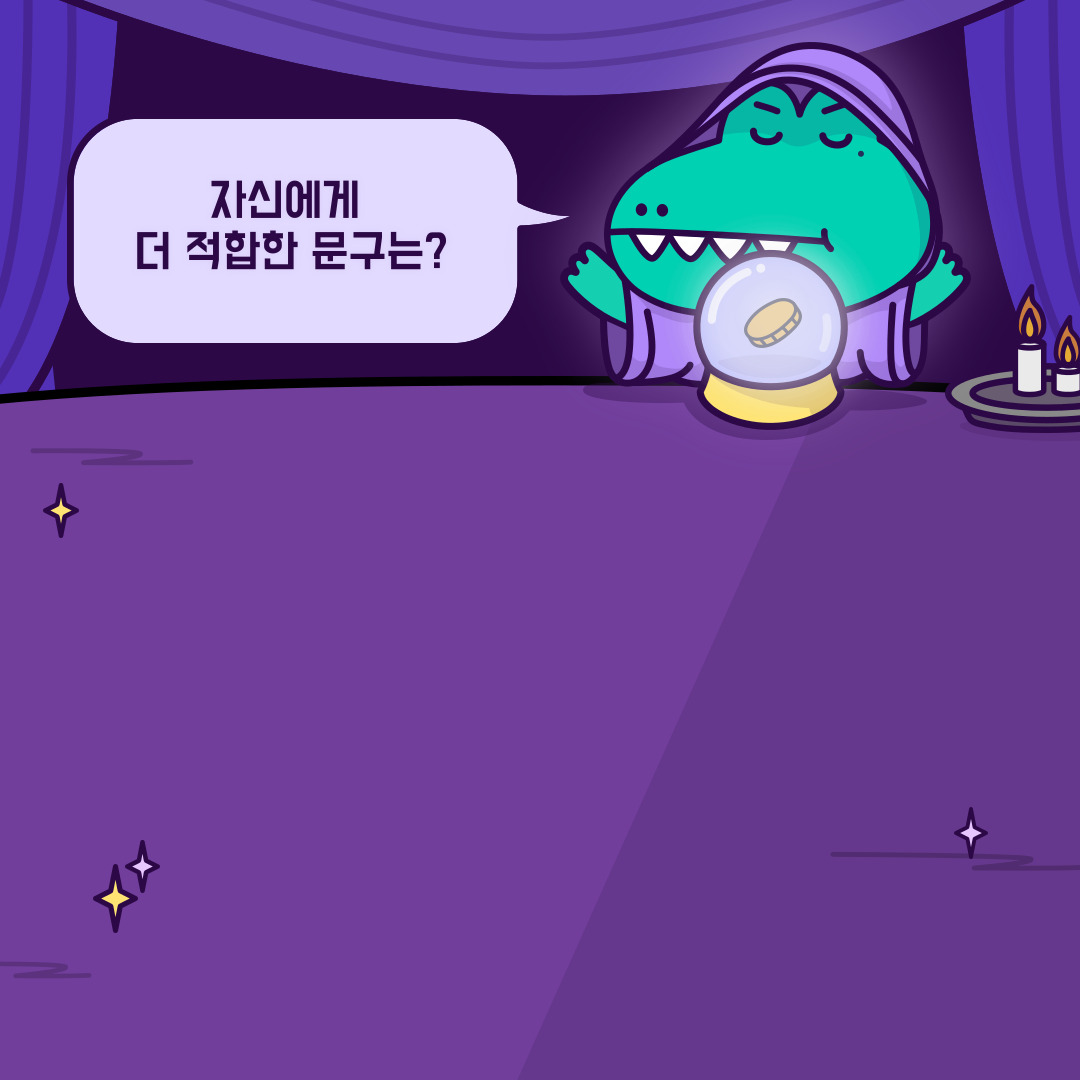
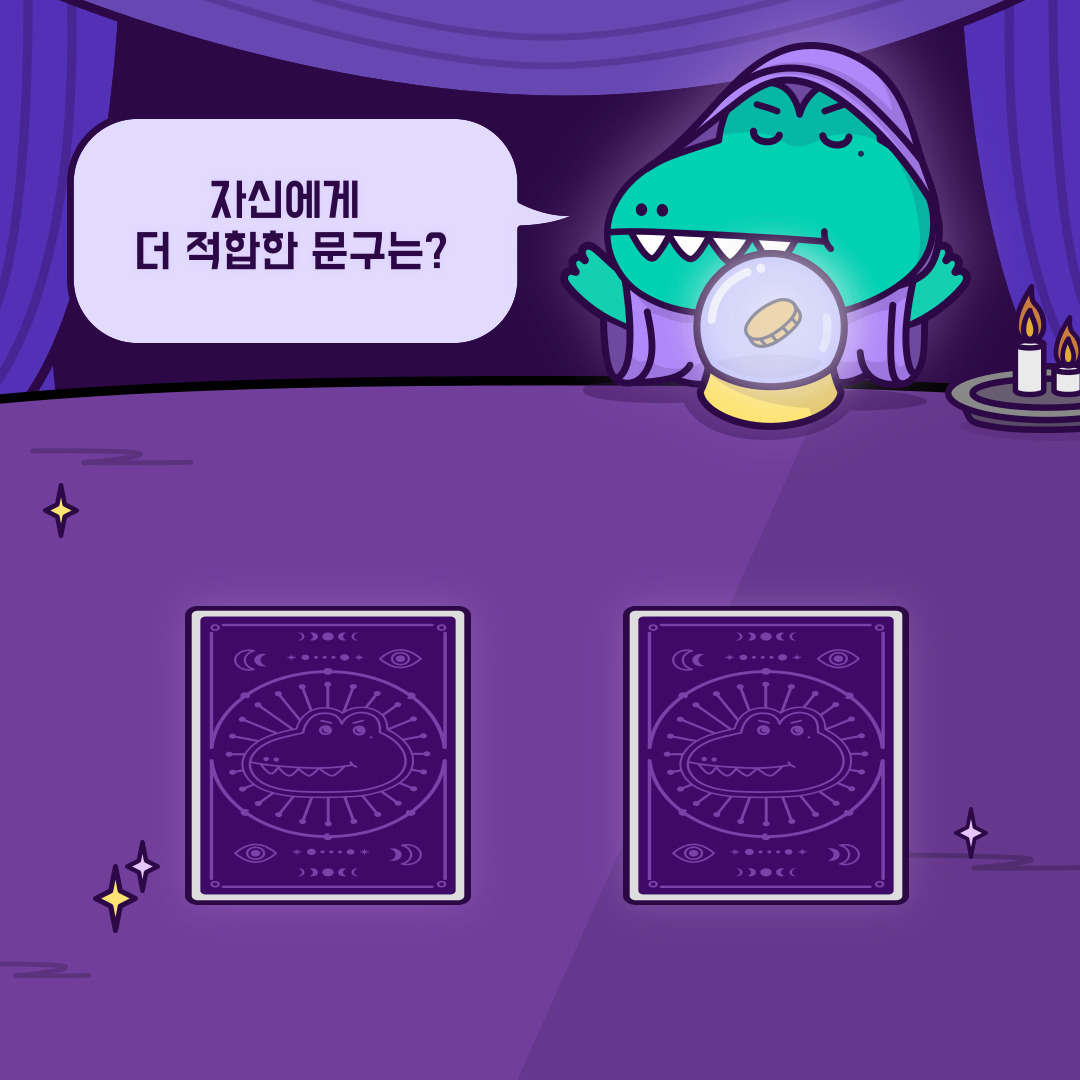
12/30 5:28

Changed region(s): [[0.1528, 0.55, 0.4583, 0.8556], [0.55, 0.55, 0.8556, 0.8556]]

diff --git a/js/apps.js b/js/apps.js
@@ -1,0 +1,103 @@
+const mbtiInfo = {
+  istp: [
+    "대담하면서도 현실적인 성격으로, 모든 종류의 도구를 자유자재로 다루는 장인입니다.",
+    "ISTP",
+  ],
+  istj: ["사실을 중시하는 믿음직한 현실주의자입니다.", , "ISTJ"],
+  isfp: [
+    "항상 새로운 경험을 추구하는 유연하고 매력 넘치는 예술가입니다.",
+    "ISFP",
+  ],
+  isfj: [
+    "주변 사람을 보호할 준비가 되어있는 헌신적이고 따뜻한 수호자입니다.",
+    "ISFJ",
+  ],
+  intp: ["지식을 끝없이 갈망하는 혁신적인 발명가입니다.", "INTP"],
+  intj: ["모든 일에 대해 계획을 세우며 상상력이 풍부한 전략가입니다.", "INTJ"],
+  infp: [
+    "항상 선을 행할 준비가 되어 있는 부드럽고 친절한 이타주의자입니다.",
+    "INFP",
+  ],
+  infj: [
+    "차분하고 신비한 분위기를 풍기는 성격으로, 다른 사람에게 의욕을 불어넣는 이상주의자입니다.",
+    "INFJ",
+  ],
+  estp: [
+    "위험을 기꺼이 감수하는 성격으로 영리하고 에너지 넘치며 관찰력이 뛰어난 사업가입니다.",
+    "ESTP",
+  ],
+  estj: ["사물과 사람을 관리하는 데 뛰어난 능력을 지닌 경영자입니다.", "ESTJ"],
+  esfp: [
+    "즉흥적이고 넘치는 에너지와 열정으로 주변사람을 즐겁게 하는 연예인입니다.",
+    "ESFP",
+  ],
+  esfj: [
+    "배려심이 넘치고 항상 타인을 도울 준비가 되어있는 성격으로, 사교성이 높은 마당발입니다.",
+    "ESFJ",
+  ],
+  entp: ["지적 도전을 즐기는 영리하고 호기심이 많은 사색가입니다.", "ENTP"],
+  entj: [
+    "항상 해결책을 찾아내는 성격으로, 대담하고 상상력이 풍부하며 의지가 강한 지도자입니다.",
+    "ENTJ",
+  ],
+  enfp: [
+    "열정적이고 창의적인 성격으로, 긍정적으로 삶을 바라보는 사교적이면서도 자유로운 영혼입니다.",
+    "ENFP",
+  ],
+  enfj: [
+    "청중을 사로잡고 의욕을 불어넣는 카리스마 넘치는 지도자입니다.",
+    "ENFJ",
+  ],
+};
+let pageNumber = 1;
+const imageContainer1 = document.querySelector("#image-container1");
+const imageContainer2 = document.querySelector("#image-container2");
+const imageContainer3 = document.querySelector("#image-container3");
+
+const textContainer = document.querySelector("#text-container");
+const leftItem = document.querySelector("#left-item");
+const rightItem = document.querySelector("#right-item");
+const HIDDEN_KEY = "hidden";
+
+let answerArr = [
+  null,
+  null,
+  null,
+  null,
+  null,
+  null,
+  null,
+  null,
+  null,
+  null,
+  null,
+  null,
+];
+const page = document.querySelector("#page");
+function onStart() {
+  imageContainer1.classList.add(HIDDEN_KEY);
+  imageContainer2.classList.remove(HIDDEN_KEY);
+  textContainer.classList.remove(HIDDEN_KEY);
+  page.innerText = `${pageNumber}/12`;
+}
+imageContainer1.addEventListener("click", onStart);
+
+const before = document.querySelector("#before");
+
+function pagingMinus() {
+  if (pageNumber === 1) {
+  } else {
+    pageNumber--;
+  }
+  page.innerText = `${pageNumber}/12`;
+}
+
+function pagingPlus() {
+  if (pageNumber === 12) {
+  } else {
+    pageNumber++;
+  }
+  page.innerText = `${pageNumber}/12`;
+}
+before.addEventListener("click", pagingMinus);
+after.addEventListener("click", pagingPlus);

diff --git a/css/index.css b/css/index.css
@@ -1,6 +1,14 @@
+@font-face {
+  font-family: "BMDOHYEON";
+  src: url("https://cdn.jsdelivr.net/gh/projectnoonnu/noonfonts_one@1.0/BMDOHYEON.woff")
+    format("woff");
+  font-weight: normal;
+  font-style: normal;
+}
 * {
   margin: 0;
   padding: 0;
+  font-family: "BMDOHYEON";
 }
 
 #wrap {
@@ -32,58 +40,113 @@
   display: none;
 }
 
-#image-container {
+#image-container1 {
+  background-image: url("../img/start.jpg");
+  /* 900 or 1080 */
+  height: 1080px;
+  position: relative;
+}
+
+#image-container2 {
   background-image: url("../img/select.jpg");
+  /* 900 or 1080 */
   height: 900px;
   position: relative;
 }
+
+#replay-btn {
+  position: absolute;
+  bottom: 10%;
+  left: 25%;
+  height: 69px;
+  line-height: 69px;
+  width: 500px;
+  font-size: 30px;
+}
+
 #text-container {
-  height: 180px;
+  height: 130px;
   background-color: beige;
   margin: 0 auto;
   position: relative;
 }
-#left-item {
-  width: 300px;
-  height: 300px;
-  position: absolute;
-  bottom: 10%;
-  left: 15%;
+#br {
+  height: 50px;
   background-color: #c5adce;
-  line-height: 300px;
+}
+#left-item {
+  width: 235px;
+  height: 240px;
+  position: absolute;
+  bottom: 2%;
+  left: 19.5%;
+  /* background-color: #c5adce; */
+  line-height: 50px;
+  word-break: break-all;
+  overflow: hiddlen;
 }
 
 #right-item {
-  width: 300px;
-  height: 300px;
+  width: 235px;
+  height: 240px;
   position: absolute;
-  bottom: 10%;
-  right: 15%;
-  background-color: #c5adce;
-  line-height: 300px;
+  bottom: 2%;
+  right: 18%;
+  /* background-color: #c5adce; */
+  line-height: 50px;
+  word-break: break-all;
+  overflow: hiddlen;
 }
 #before {
   width: 300px;
-  height: 180px;
-  background-color: #c16a91;
+  height: 80px;
+  background-color: #decfe4;
   float: left;
-  line-height: 180px;
+  line-height: 80px;
 }
 #page {
+  /* 480 or 240 */
   width: 480px;
-  height: 180px;
-  background-color: #b691f8;
+  height: 80px;
+  background-color: #d8c7df;
   float: left;
-  line-height: 180px;
+  line-height: 80px;
+}
+
+#result-btn {
+  width: 240px;
+  height: 80px;
+  background-color: #d8c7df;
+  float: left;
+  line-height: 80px;
 }
 #after {
   width: 300px;
-  height: 180px;
-  background-color: #c16a91;
+  height: 80px;
+  background-color: #decfe4;
   float: left;
-  line-height: 180px;
+  line-height: 80px;
 }
 
-/* <div id="before"></div>
-            <div id="page"></div>
-            <div id="after"></div> */
+#mbti-info {
+  position: absolute;
+  width: 450px;
+  height: 200px;
+  line-height: 50px;
+  bottom: 33%;
+  left: 29%;
+  color: #2b035b;
+  font-size: 30px;
+}
+#mbti-result {
+  position: absolute;
+  width: 400px;
+  height: 90px;
+  line-height: 90px;
+
+  bottom: 22%;
+  left: 34%;
+  font-size: 40px;
+  font-weight: bold;
+  color: #2b035b;
+}

diff --git a/index.html b/index.html
@@ -12,15 +12,25 @@
       <div id="header"></div>
       <div id="content">
         <div class="container">
-          <div id="image-container">
+          <div id="image-container1"></div>
+
+          <div class="hidden" id="image-container2">
             <div id="left-item">left-item</div>
             <div id="right-item">right-item</div>
           </div>
 
-          <div id="text-container">
-            <div id="before"></div>
-            <div id="page"></div>
-            <div id="after"></div>
+          <div class="hidden" id="image-container3">
+            <div id="mbti-info">mbti 설명 div</div>
+            <div id="mbti-result">mbti 결과 div</div>
+            <div id="replay-btn">다시하기</div>
+          </div>
+
+          <div class="hidden" id="text-container">
+            <div id="br"></div>
+            <div id="before">이전</div>
+            <div id="page">page</div>
+            <div id="result-btn" class="hidden">결과보기✨</div>
+            <div id="after">다음</div>
           </div>
         </div>
       </div>
